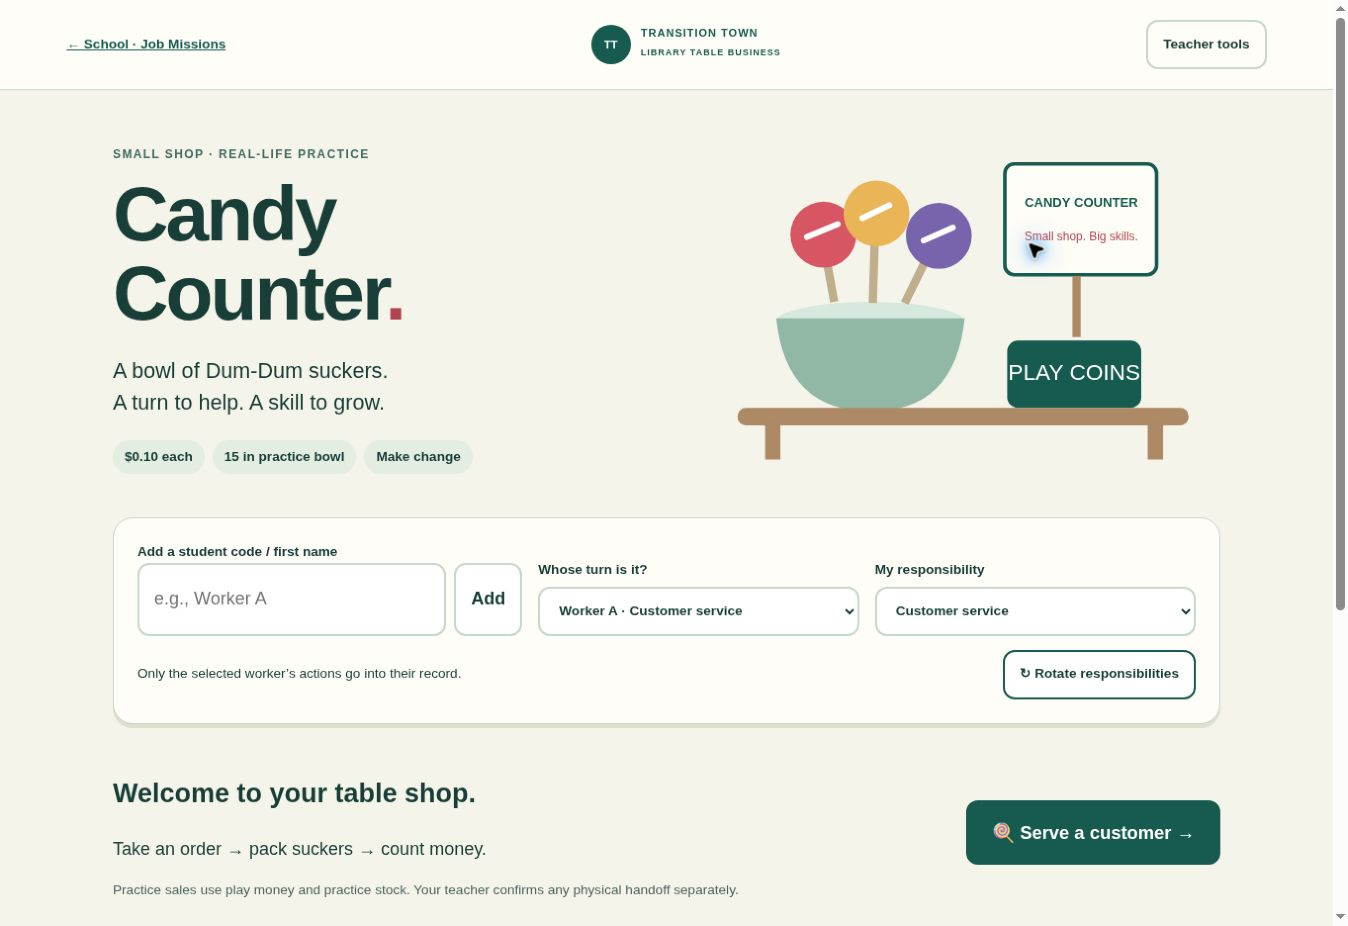
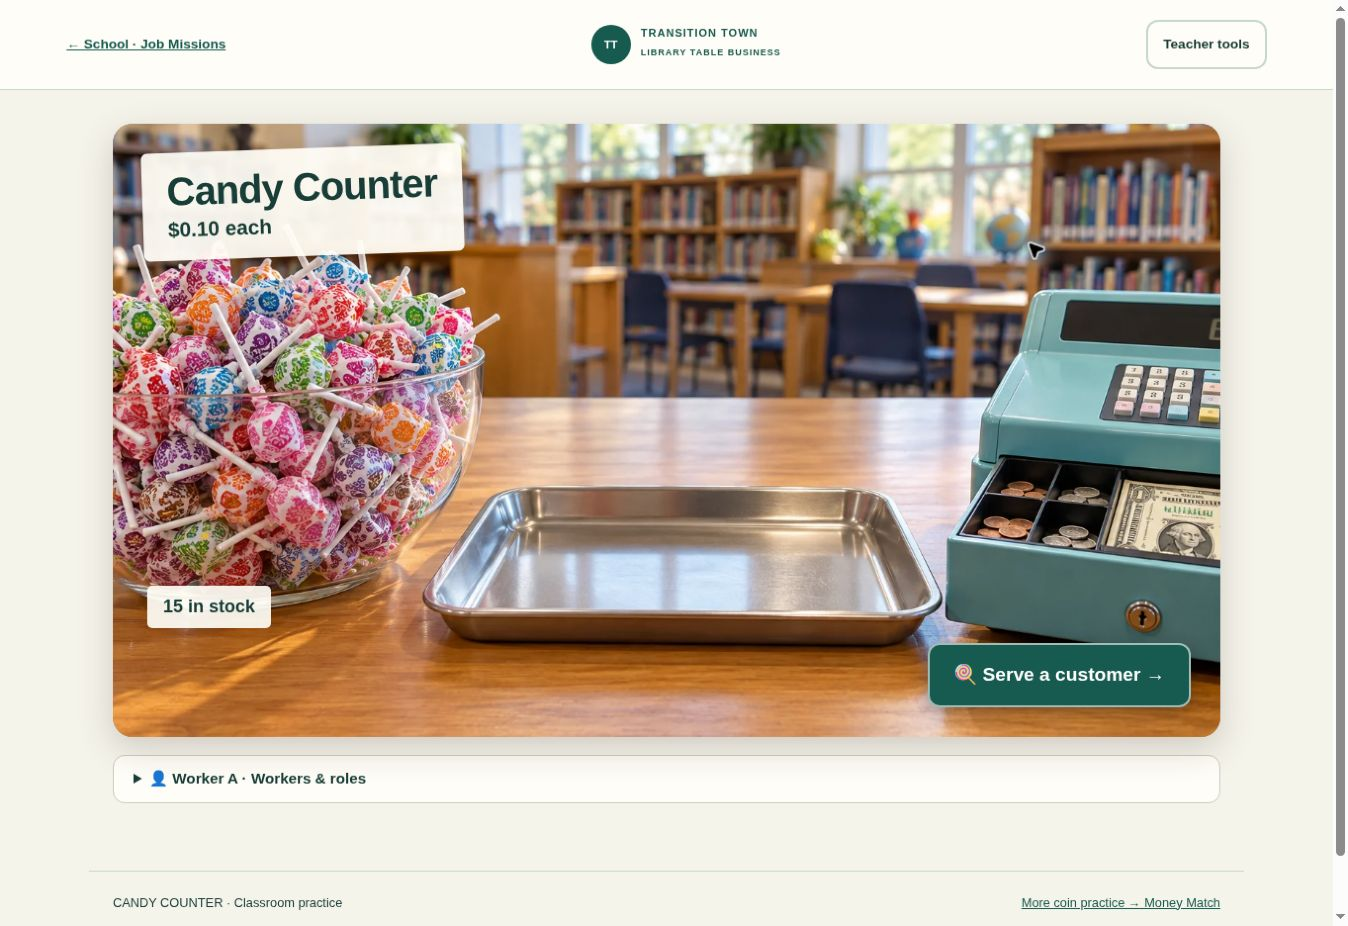
Make Candy Counter a realistic tabletop shop with shorter student directions

diff --git a/assets/candy-counter/counter.css b/assets/candy-counter/counter.css
@@ -5,3 +5,8 @@ body{background:#f5f4eb;color:var(--ink);font-family:Arial,Helvetica,sans-serif;
 @media print{@page{size:auto;margin:14mm}body{background:white!important;color:black;font-size:10pt;line-height:1.35}body>header,body>main,body>footer,body>.message,body>.skip,noscript{display:none!important}#print-report{display:block!important;max-width:none;margin:0;padding:0}#print-report h1{font-size:22pt;margin:0 0 8pt}#print-report h2{font-size:15pt;margin-top:18pt}#print-report table{font-size:8pt;width:100%;table-layout:fixed}#print-report th,#print-report td{overflow-wrap:anywhere;padding:5pt;border:1px solid #999}#print-report thead{display:table-header-group}#print-report tr,#print-report .report-observation{break-inside:avoid}#print-report .report-observation{border-color:#aaa}#print-report .fine{color:black;font-size:9pt}#print-report .print-break{break-before:page}#print-report button{display:none!important}}
 
 .answer-money{display:flex;gap:2px;flex-wrap:wrap;justify-content:center;max-width:180px}.answer-money img{width:45px;height:45px}.choice small{font-size:.8rem}@media print{#print-report .table-wrap{overflow:visible}}
+
+/* Real tabletop scene replaces the vector hero and long student introduction. */
+.real-shop{position:relative;overflow:hidden;border-radius:20px;min-height:500px;background:#a78052;box-shadow:0 12px 35px #34221930}.real-shop>.table-art{display:block;width:100%;height:620px;object-fit:cover;max-height:none}.shop-sign{position:absolute;top:25px;left:30px;background:#fffdf5f0;padding:16px 25px;border-radius:6px;box-shadow:0 5px 15px #33220c30;transform:rotate(-2deg)}.shop-sign h1{font-size:2.5rem;margin:0;letter-spacing:-1px;line-height:1.15}.shop-sign>span{font-size:1.3rem;font-weight:bold}.shop-stock{position:absolute;bottom:110px;left:35px;background:#fffdf5ed;padding:8px 16px;border-radius:5px;font-weight:bold}.shop-start{position:absolute;right:30px;bottom:30px}.shop-start .primary{font-size:1.2rem;box-shadow:0 5px 18px #0005;border-color:#fff9;min-height:65px}.worker-drawer{margin:18px 0;background:#fffdf7;border:1px solid #cfcdc1;border-radius:12px;padding:0 20px}.worker-drawer>summary{font-size:.95rem}.worker-drawer .panel{box-shadow:none;margin:0 0 15px;border:0;padding:10px 0}.real-sucker{height:85px!important;width:48px!important;object-fit:contain;filter:drop-shadow(2px 4px 2px #0002)}.big-pictures .real-sucker{height:110px!important;width:60px!important}.picture-button .real-sucker{height:55px!important;width:30px!important}.choice .candy-pictures{min-height:90px}.workshop-photo{height:190px;overflow:hidden;border-radius:16px}.workshop-photo .table-art{width:100%;height:100%;object-fit:cover;object-position:center 55%}.step-card>.step-top .eyebrow{display:none}.steps{margin:15px 0}.steps li:not([aria-current]){font-size:0;padding:5px;width:15px;border-radius:30px;background:#b9cbbd;border:0}.steps li[aria-current]{border:0;padding:4px 12px}.step-card .fine:not(.check-label),.team-bottom>span{display:none}.step-card .customer{display:flex;align-items:center;justify-content:space-between;gap:15px;margin:12px 0;padding:10px 16px}.step-card h1{font-size:2rem}.step-card .directions{margin:8px 0}.step-card .hint{font-size:.9rem;padding:10px}.step-card .choice{border-radius:15px;box-shadow:0 4px 0 #d1d4c8}.step-card .tray{background:linear-gradient(135deg,#d9dcda,#f9faf9 45%,#c5c8c5);border:5px ridge #babfbc;box-shadow:inset 0 5px 10px #0002}.team-bottom{margin-top:8px}
+@media(max-width:760px){.real-shop{min-height:450px}.real-shop>.table-art{height:500px;object-position:48% center}.shop-sign{top:18px;left:14px;padding:12px 18px}.shop-sign h1{font-size:1.9rem}.shop-stock{bottom:95px;left:15px}.shop-start{bottom:20px;right:15px;left:15px}.shop-start .primary{width:100%}.workshop-photo{height:140px}.choice .real-sucker{height:65px!important;width:32px!important}.step-card .customer{flex-wrap:wrap}.worker-drawer{padding:0 12px}.step-card .hint .candy-pictures .real-sucker{height:45px!important;width:25px!important}}
+@media print{.real-shop,.workshop-photo,.worker-drawer{display:none!important}}

diff --git a/docs/candy-counter.md b/docs/candy-counter.md
@@ -52,3 +52,11 @@ The Candy Counter suite covers all 500 supported prices with quantities 1–5; i
 The dedicated `Candy Counter checks` workflow runs on the development branch and relevant pull requests, without a deployment step. Browser verification and any remaining limitations are recorded in the pull request.
 
 ![Candy Counter development preview](candy-counter-preview.jpg)
+
+## Realistic visual update
+
+The student entry now shows a photographic library-table counter with a glass candy bowl, an order tray and a cash register. Individual countable wrapped-sucker images replace the vector shapes. The heading, adjustable price and practice stock are live HTML; image details never drive calculations. Workers and roles are in an expandable drawer, and student directions are shorter. Teacher reports and all financial/stock rules are unchanged.
+
+Artwork was made with the built-in image-generation tool and optimized as local WebP assets:
+- `assets/candy-counter/real-counter.webp`: photorealistic customer-eye view of a small library candy table, wrapped Dum-Dum-style suckers in a glass bowl, empty metal order tray, teal register, warm daylight, no people or interface panels.
+- `assets/candy-counter/wrapped-sucker.webp`: one realistic red-and-white wrapped small lollipop with a white stick, isolated on transparent background, used as a countable object.
